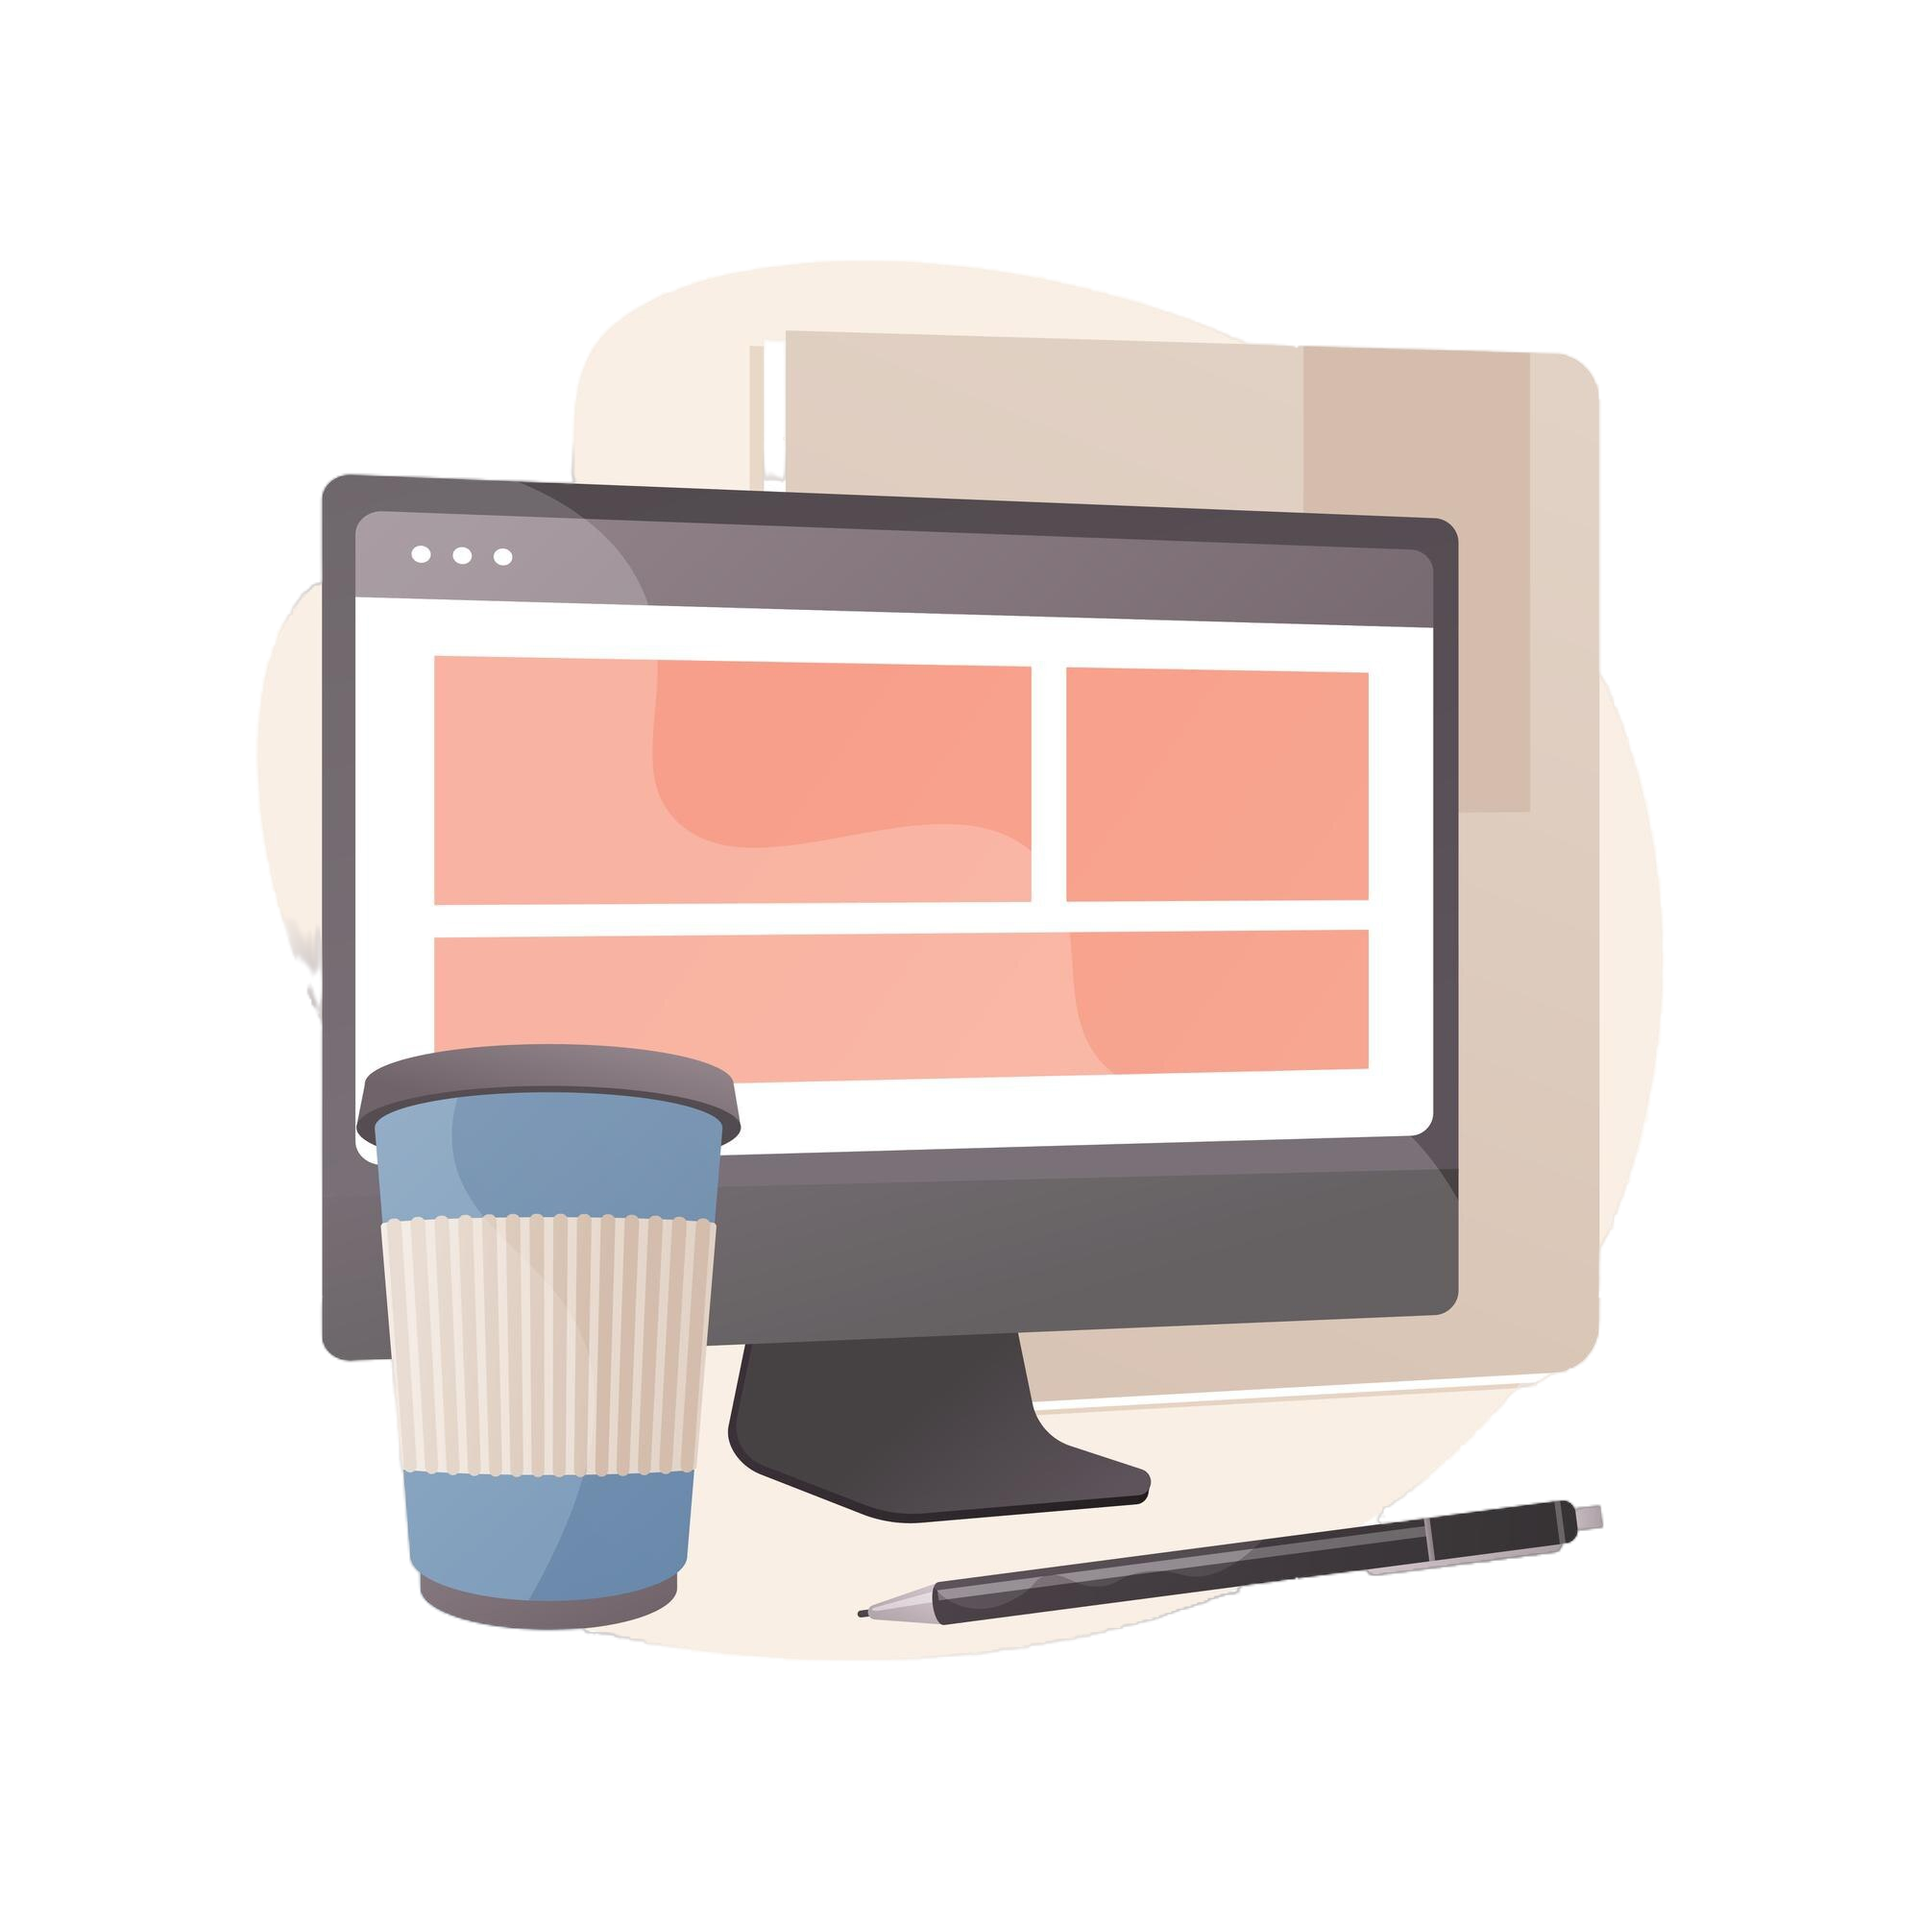
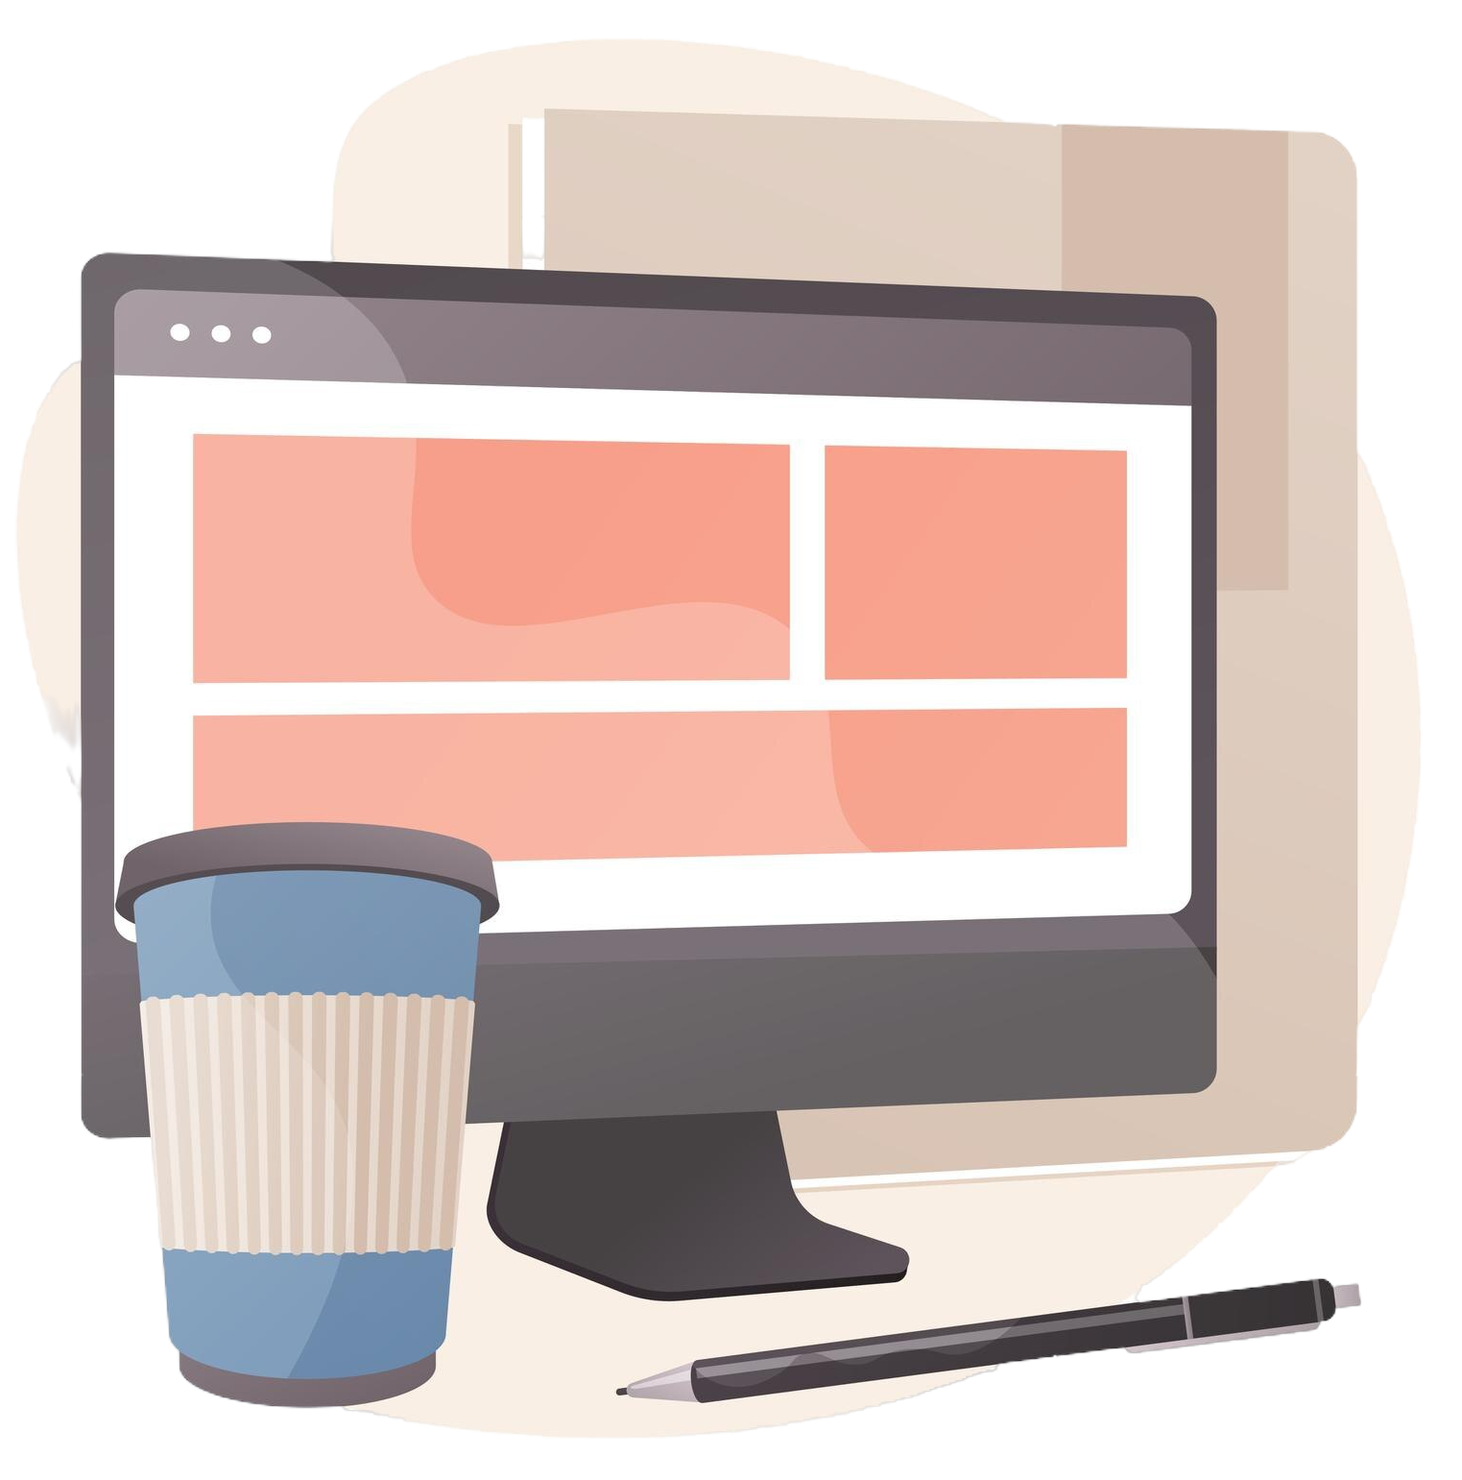
first stiling, about

diff --git a/style.css b/style.css
@@ -11,21 +11,62 @@
 font-weight: normal;
 }
 
+img {
+    filter: drop-shadow(8px 8px 5px #a39a7d);
+}
+
+html {
+    background: rgb(201,150,69);
+    background: linear-gradient(138deg, rgb(218, 157, 59) 0%, rgba(69,74,76,1) 100%); 
+    margin: 0;
+    width: 100%;
+    height: auto;
+}
+
 body {
+    width: 96%;
+    height: 96%;
+    margin-top: 2%;
+    margin-left: 2%;
+    position: relative;
     line-height: 1.6;
     color: var(--dark-blue);
-    background-color: var(--light);
+    background: #f8e1c2;
+    background: radial-gradient( circle 150vw at 0% 0%, #f8e1c2 , #b5ae95);
+    display: flex;
+    justify-content: center;
+    align-items: center;
+    padding: 0;
+    flex-direction: column;
+    border-radius: 15px;
+    border: solid 1px #ffffff;
+    box-shadow: 8px 8px 10px rgba(69,74,76);
+
+}
+
+.kytka_1{
+    position: absolute;
+    width: 10%;
+    height: 10%;
+    left: -2%;
+    top: 18%;
+}
+
+.kytka_1 img{
+    max-width: 100%;
+    height: auto;
+    object-fit: cover;
 }
 
 .topnav {
     height: 50px;
     width: 100%;
     display: flex;
-    position: fixed;
+    position: sticky;
     top: 0;
     left: 0; 
     z-index: 1024; 
-    background-color: var(--light);
+    background-color:transparent;
     text-transform: uppercase;
     justify-content: space-between;
     align-items: center;
@@ -37,25 +78,7 @@ body {
     flex-direction: row;
     height: 100%;
     width: auto;
-}
-
-.topnav a {
-    list-style: none;
-    text-decoration: none;
-    width: 9em;
-    height: 3em;
-    border-radius: 10px;
-    font-size: 15px;
-    border: none;
-    position: relative;
-    overflow: hidden;
-    z-index: 1;
-    justify-content: center;
-    align-items: center;
-    text-align: center;
-    display: flex;
-    color: var(--dark-blue);
-    font-weight: bold;
+    gap: 10px;
 }
 
 .topnav p {
@@ -66,67 +89,158 @@ body {
     flex-direction: row;
 }
 
-.topnav img {
-    height: 90%;
-    margin: 5%;
+a {
+    text-decoration: none;
+    font-size: 17px;
+    background: transparent;
+    border: none;
+    padding: 10px 15px;
+    color: var(--dark-blue);
+    text-transform: uppercase;
+    position: relative;
+    transition: 0.5s ease;
+    cursor: pointer;
+    border-radius: 5px;
+    border: solid 1px #ffffff;
+    box-shadow: 8px 8px 5px #a39a7d;
+    filter: none;
 }
-
-.topnav a::before {
-    content: '';
-    width: 0;
-    height: 3em;
-    border-radius: 10px;
+  
+   a::before {
+    content: "";
     position: absolute;
-    top: 0;
     left: 0;
-    background-image: linear-gradient(to right, var(--orange) 0%, var(--orange) 100%);
-    transition: .5s ease;
-    display: block;
+    bottom: 0;
+    height: 2px;
+    width: 0;
+    background-color: var(--orange);
+    transition: 0.5s ease;
+    border-radius: 5px;
+  }
+  
+   a:hover {
+    color: #1e1e2b;
+    transition-delay: 0.5s;
+    border-radius: 5px;
+  }
+  
+   a:hover::before {
+    width: 90%;
+    left: 5%;
+    filter: drop-shadow(8px 8px 5px #a39a7d);
+  }
+  
+   a::after {
+    content: "";
+    position: absolute;
+    left: 0;
+    bottom: 0;
+    height: 0;
+    width: 100%;
+    background-color: var(--orange);
+    transition: 0.4s ease;
     z-index: -1;
-   }
-   
-   .topnav a:hover::before {
-    width: 9em;
-   }
-
+    border-radius: 5px;
+  }
+  
+   a:hover::after {
+    height: 100%;
+    transition-delay: 0.4s;
+    color: aliceblue;
+    border-radius: 5px;
+    filter: drop-shadow(8px 8px 5px #a39a7d);
+  }
+  
 
 
 /* Hero Section */
 #hero {
-    text-align: center;
-    padding: 100px 20px;
     position: relative;
+    margin-left: 0;
+    display: grid;
+    grid-template-columns: 33.3% 33.3% 33.3%;
+    grid-template-rows: 33.3% 33.3% 33.3%;
+    margin-top: 50px;
+    width: 90%;
+    height: 90vh;
+    justify-items: center; /* Vertikální vycentrování */
+    align-items: center;
 }
 
-.hero-content h1 {
-    font-size: 3rem;
-    margin-bottom: 20px;
-}
-
-.cta-btn {
-    background-color: var(--orange);
-    color: #fff;
-    padding: 10px 20px;
-    text-decoration: none;
-    border-radius: 5px;
-    font-size: 1.2rem;
-}
-
-.cta-btn:hover {
-    background-color: var(--orange);
-}
-
-/* About Section */
-#about {
-    position: relative;
-    padding: 50px 20px;
-    text-align: center;
-}
-
-#about h2 {
+#hero header {
     font-size: 2.5rem;
     margin-bottom: 20px;
+    grid-column: 1 / 3;
+    grid-row: 1;
+    filter: drop-shadow(8px 8px 5px #a39a7d);
 }
+
+#hero #about {
+    grid-column: 2;
+    grid-row: 2;
+    display: flex;
+    align-items: center;
+    justify-content: center;
+    flex-direction: column;
+    padding: 20px;
+    filter: drop-shadow(8px 8px 5px #a39a7d);
+}
+
+#hero .main_picture {
+    width: 100%;
+    height: 100%;
+    grid-row-start: 2;
+    grid-row-end: span 2;
+    display: flex;
+    align-items: center;
+    justify-content: center;
+
+}
+
+.main_picture img {
+    max-width: 100%;
+    height: auto;
+    object-fit: cover;
+}
+
+#hero .second_picture {
+    width: 100%;
+    height: 100%;
+    padding: 10px;
+    grid-row: 1;
+    display: flex;
+    align-items: end;
+    justify-content: end;
+
+}
+
+.second_picture img {
+    max-width: 100%;
+    max-height: 100%;
+    height: auto;
+    object-fit: cover;
+}
+
+#hero .coding_picture {
+    height: 100%;
+    padding: 10px;
+    grid-row-start: 2;
+    grid-row-end: span 3;
+    grid-column: 3;
+    display: flex;
+    align-items: center;
+    justify-content: center;
+
+}
+
+.coding_picture img {
+    max-width: 100%;
+    max-height: 100%;
+    height: auto;
+    object-fit: cover;
+}
+
+
 
 /* Services Section */
 #services {

diff --git a/index.html b/index.html
@@ -15,23 +15,27 @@
             <p>Scholzová Lucie SWeby</p>
         </div>
         <div>
-            <a href="#about">About me</a>
+            <a href="#">About me</a>
             <a href="#services">Skills</a>
             <a href="#portfolio">Portfolio</a>
         </div>
 
     </nav>
+    <div class="kytka_1">
+        <img alt="" src="img/organic-flat-houseplant-collection2.png">
+    </div>
     <section id="hero">
-        <div class="hero-content">
-            <h1>Python Developer & Web Developer & Designer</h1>
-            <a href="#contact" class="cta-btn">Contact me</a>
+        <header>
+            <h1>Python&nbsp;Developer & Web&nbsp; Developer & Designer</h1>
+        </header>
+        <div id="about">
+            <h2>About me</h2>
+            <p>I am a Python and web developer and designer with a passion for creating modern, functional and aesthetic websites. I specialize in Python application development while designing original logos, business cards and websites. I love combining technology with design to bring clients solutions tailored to their needs.</p>
+            <a href="#contact" >Contact me</a>
         </div>
-    </section>
-
-    <!-- About Section -->
-    <section id="about">
-        <h2>About me</h2>
-        <p>I am a Python and web developer and designer with a passion for creating modern, functional and aesthetic websites. I specialize in Python application development while designing original logos, business cards and websites. I love combining technology with design to bring clients solutions tailored to their needs.</p>
+        <div class="main_picture"><img alt="" src="img/computer3.png"></div>
+        <div class="second_picture"><img alt="" src="img/computer2.png"></div>
+        <div class="coding_picture"><img alt="" src="img/ai-generated-8775234_1280.png"></div>
     </section>
 
     <!-- Services Section -->
